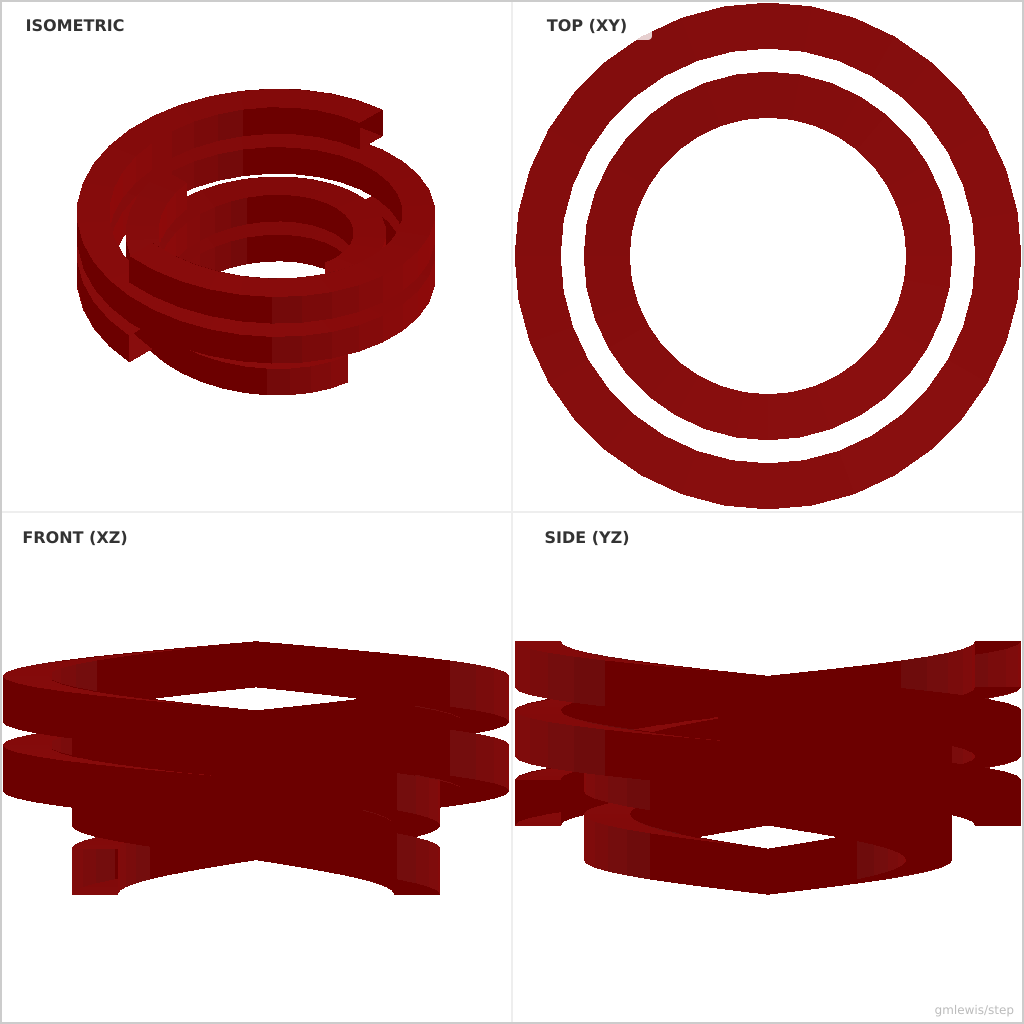
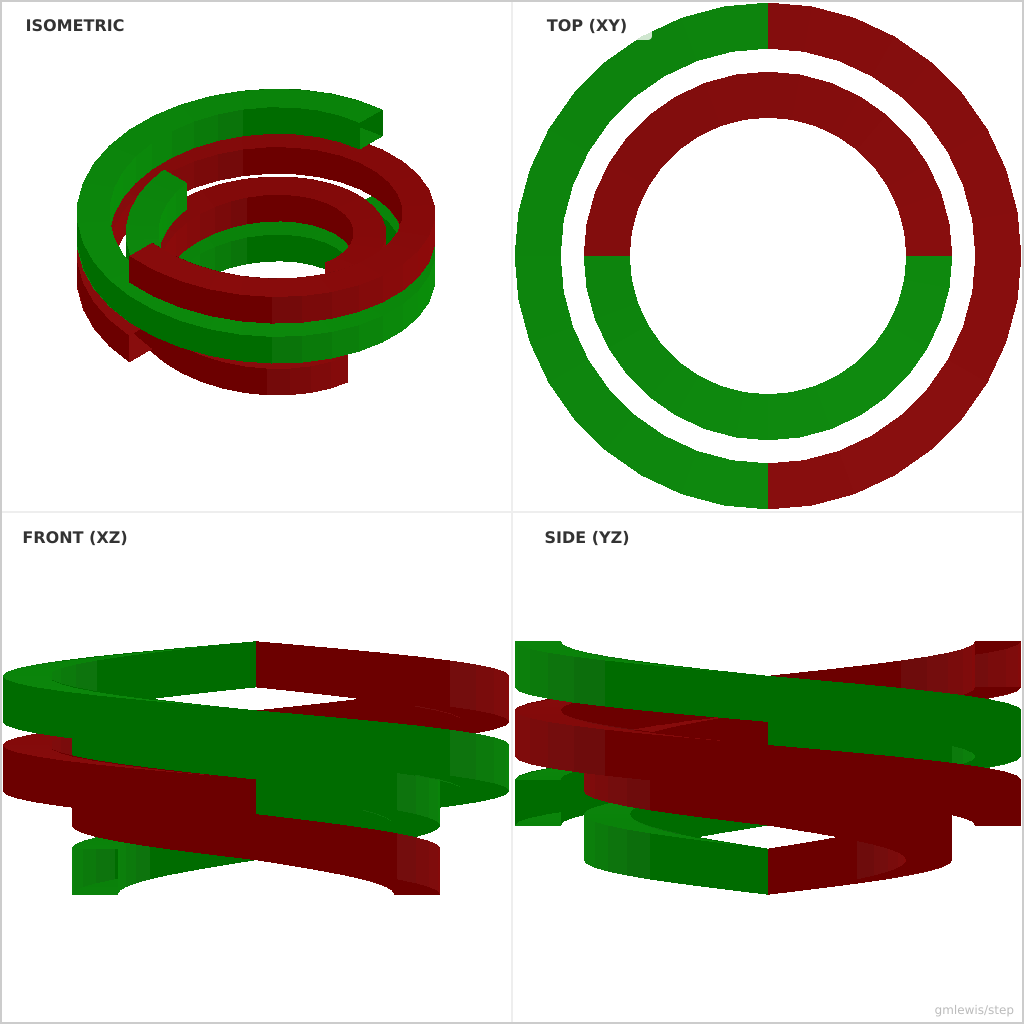
Add wires

diff --git a/examples/12-bifilar-electromagnet/README.md b/examples/12-bifilar-electromagnet/README.md
@@ -36,15 +36,3 @@ Command line: `./run-example.sh 12 --nocage --numPairs 2 --wireGap 0.5 --vertTur
 
 ![](preview-1.png)
 
-### Variant 2
-
-Command line: `./run-example.sh 12 --nocoil --numPairs 10 --vertTurns 10`
-
-![](preview-2.png)
-
-### Variant 3
-
-Command line: `./run-example.sh 12 --numPairs 10 --vertTurns 10`
-
-![](preview-3.png)
-
